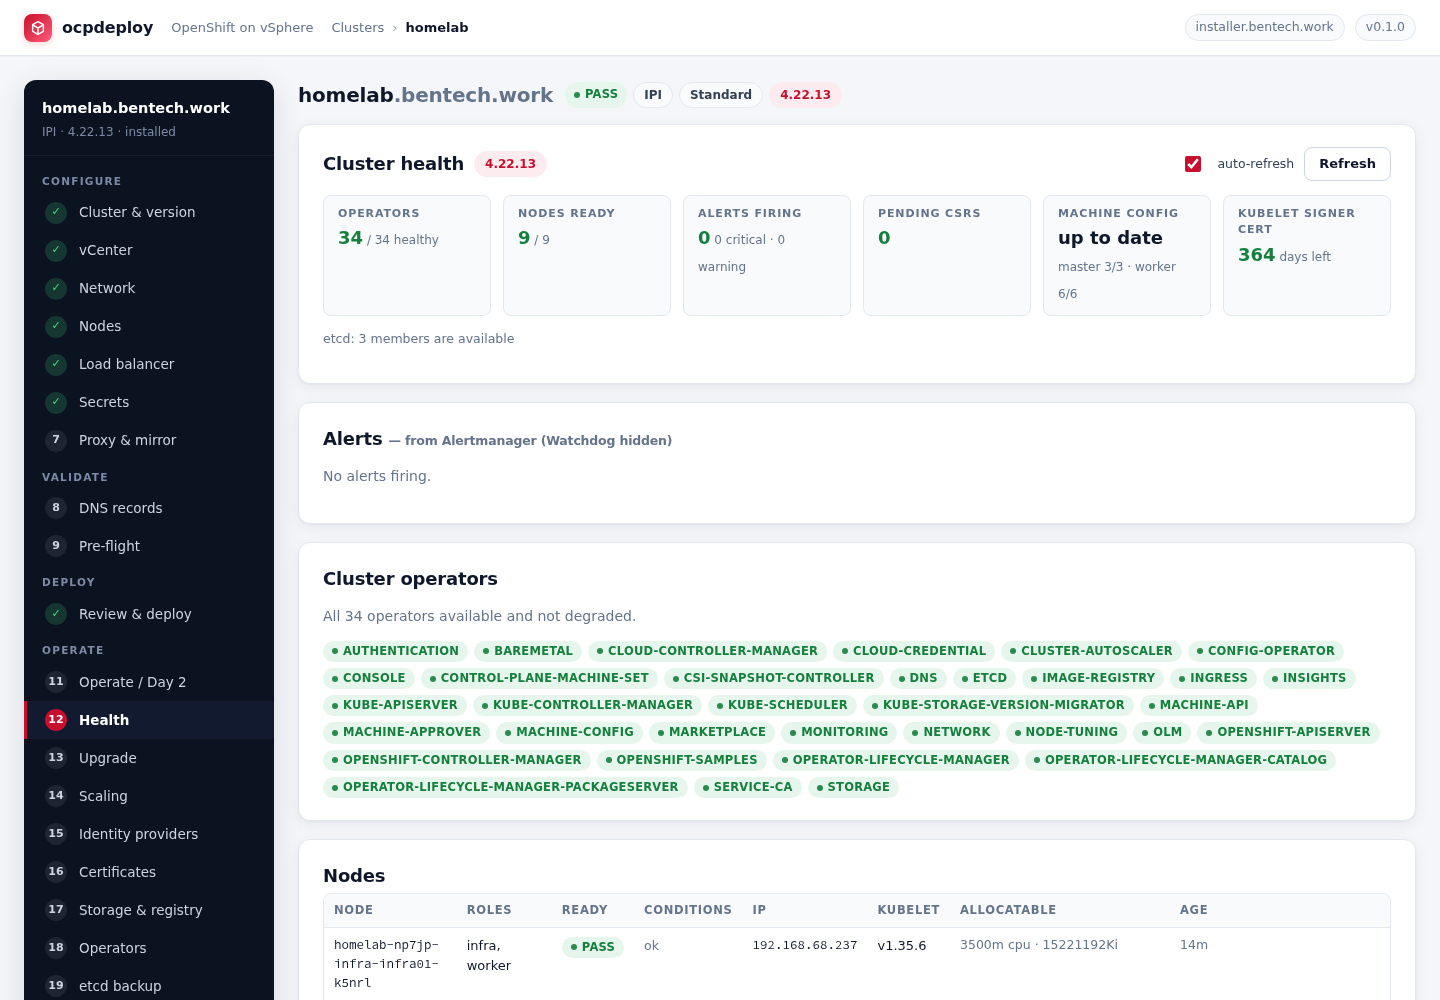
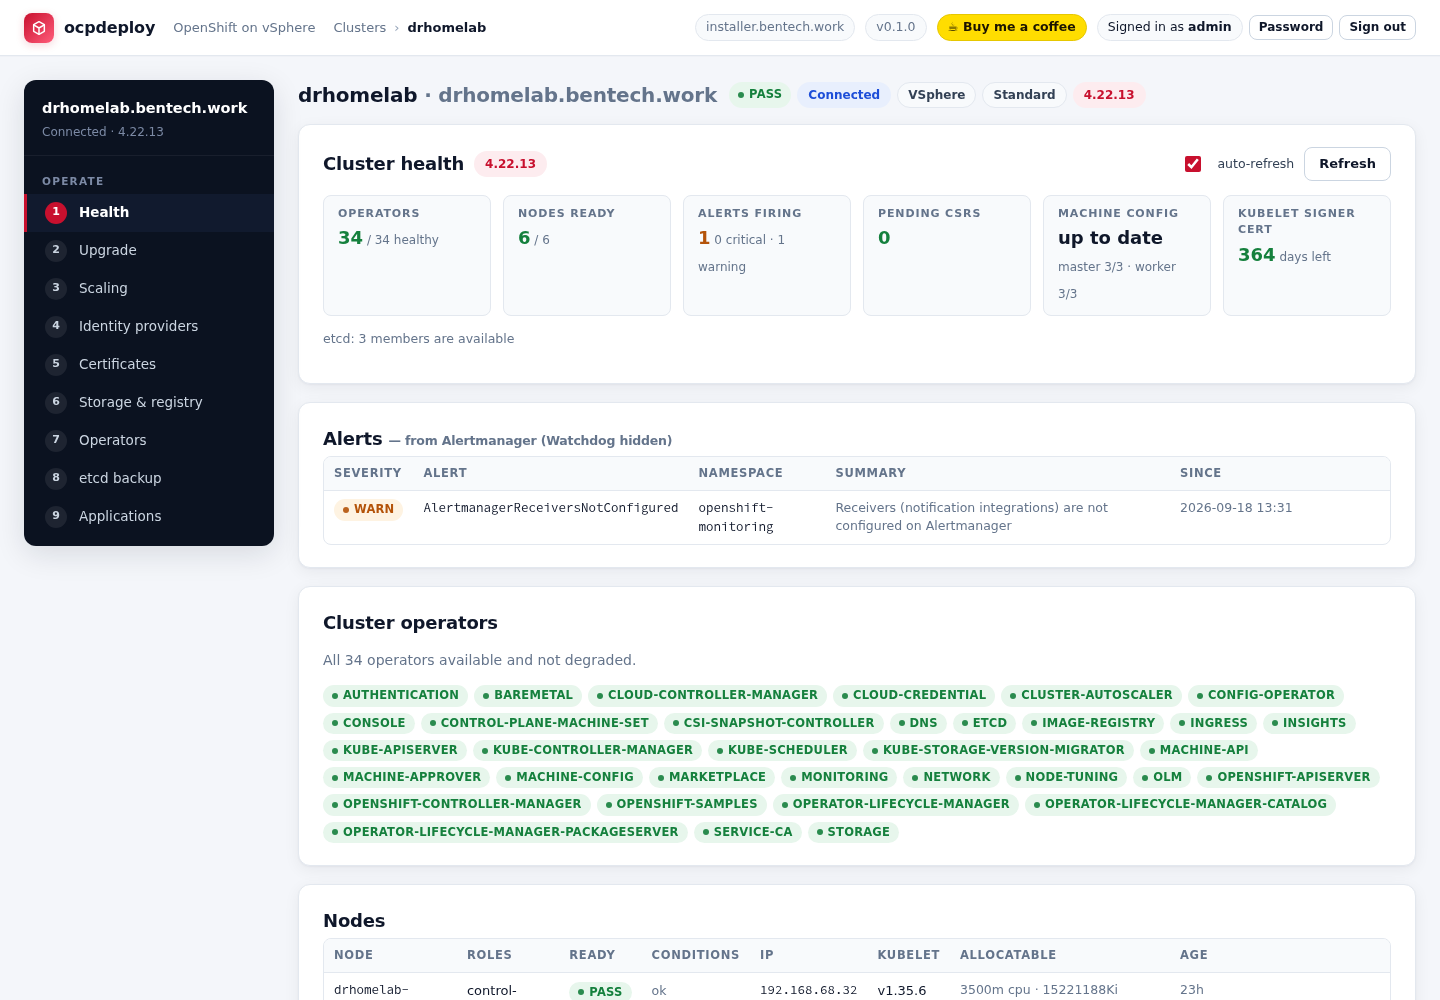
README: current intro, wizard and pre-flight wording; new screenshots (sign-in, clusters, connect flow, nodes, connected-cluster health, operate)

diff --git a/README.md b/README.md
@@ -2,31 +2,28 @@
 
 [![Buy Me a Coffee](https://img.shields.io/badge/Buy%20me%20a%20coffee-%E2%98%95-ffdd00?style=flat&logo=buymeacoffee&logoColor=black)](https://buymeacoffee.com/bentech4u)
 
-A small web console that installs and operates **OpenShift 4 clusters on VMware vSphere** from a
-single Linux "installer" host. It wraps `openshift-install`, talks to vCenter directly, manages
-HAProxy load balancers over SSH, validates DNS, and streams every job log live in the browser.
+A web console that installs and operates **OpenShift 4 clusters** from a single Linux "installer"
+host. It wraps `openshift-install`, talks to vCenter (or Proxmox, KVM, Redfish BMCs) directly,
+manages HAProxy load balancers over SSH, validates DNS, and streams every job log live in the
+browser. It can also connect to clusters it did not install and run the same day-2 operations on
+them. Access is protected by a console login.
 
 Built for home labs and small environments where you have vCenter, your own DNS server and one or
 two Linux VMs for HAProxy, and you want repeatable installs without hand-editing YAML.
 
-![Cluster list](docs/clusters.png)
-
-*Nodes step: topology, node table and pools.*
-
-![Nodes step](docs/nodes.png)
-
-*Health page after the install: operators, nodes, alerts, CSRs.*
-
-![Cluster health](docs/health.png)
-
-*Operate page in dark mode (follows the OS theme).*
-
-![Operate page](docs/operate-dark.png)
+| | |
+|---|---|
+| ![Sign in](docs/signin-dark.png) | ![Cluster list](docs/clusters.png) |
+| *Console sign-in (dark theme follows the OS).* | *Installed and connected clusters side by side.* |
+| ![Connect to a cluster](docs/connect.png) | ![Nodes step](docs/nodes.png) |
+| *Connecting an existing cluster: both certificates are checked before a password is sent.* | *Nodes step: topology, node table and pools.* |
+| ![Cluster health](docs/health.png) | ![Operate page](docs/operate-dark.png) |
+| *Health of a connected cluster: operators, alerts, CSRs, nodes.* | *Operate / Day 2 for an installed cluster.* |
 
 ## Features
 
-* **Wizard per cluster** – cluster & version → vCenter → network → nodes → load balancer → secrets →
-  proxy & mirror → DNS → pre-flight → review & deploy → operate.
+* **Wizard per cluster** – cluster & version → infrastructure (vCenter or the agent provider) → network
+  → nodes → load balancer → secrets → proxy & mirror → DNS → pre-flight → review & deploy → operate.
 * **Topologies** – standard (3 masters + workers), compact three-node (schedulable masters, routers on
   the control plane) and single-node OpenShift (no load balancer needed: DNS points at the node).
 * **Failure domains** – several vSphere clusters / datacenters as regions and zones for IPI; nodes can
@@ -54,7 +51,8 @@ two Linux VMs for HAProxy, and you want repeatable installs without hand-editing
   * *External*: paste IP + FQDN; the app validates DNS/ports and prints the required backend pools.
 * **DNS is validate-only** – a checklist of every required record with hints, checked against your
   DNS server, including stale reverse records.
-* **Pre-flight** – host, secrets, node sanity, DNS, LB ports, vCenter objects, capacity, privileges.
+* **Pre-flight** – host, secrets, node sanity, DNS, LB ports, vCenter objects (or the Proxmox / KVM /
+  Redfish provider), capacity, privileges, region/zone tags, proxy and mirror registry.
 * **Live deploy log**, installer runs as a transient systemd unit and survives app restarts.
 * **Day 2** – credentials & ingress CA download, node/operator dashboard, remove bootstrap from the
   LB, add infra and pool nodes (static IPs), move ingress / monitoring / registry to infra, resume an
